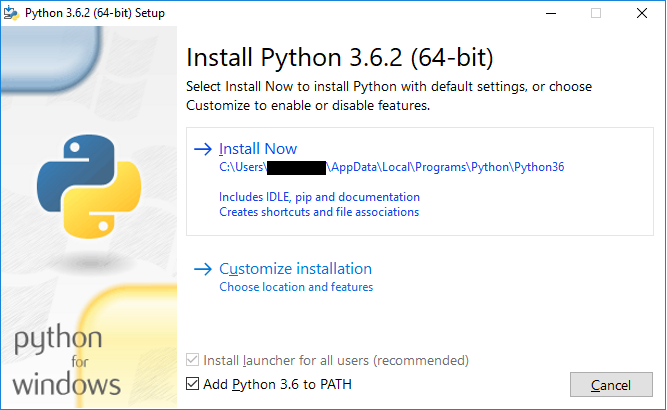
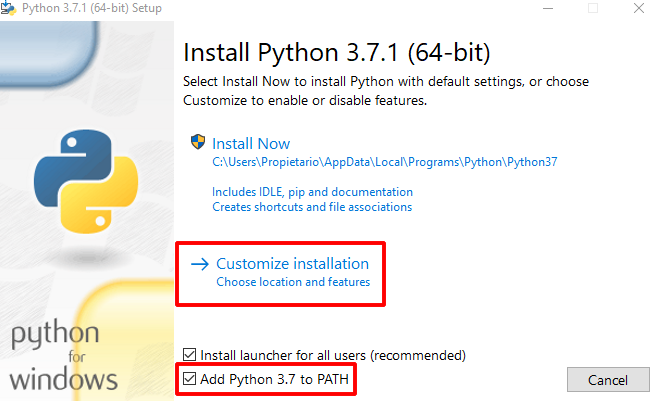
2018 update.

diff --git a/step-1/myscript.py b/step-1/myscript.py
@@ -1,1 +1,13 @@
-print("Hello World")
+"""
+This file should only work on Python 3.6 and newer.
+Its purpose is to test a correct installation of Python 3.
+"""
+
+from random import randint
+
+print("Generating one thousand random numbers...")
+
+for i in range(1000):
+
+    random_number = randint(0, 100000)
+    print(f"Number {i} was: {random_number}")

diff --git a/step-1/README.md b/step-1/README.md
@@ -8,11 +8,15 @@ The easiest way to install `Python 3` on `Windows` is to use the official `Pytho
 
 You can download the installer file (`.exe`) by opening the following link on a `Windows` PC.
 
-https://www.python.org/downloads/
+https://www.python.org/ftp/python/3.7.1/python-3.7.1-amd64.exe
 
 When running the installer make sure to check the box that says `Add Python 3.6 to PATH`.
 
 ![Windows](./images/1.png)
+
+After that you should choose `Customize Installation`. Make sure your custom installation settings are the same as the following image.
+
+![Windows](./images/2.png)
 
 Once `Python 3` has finished installing you will be able to run `Python 3` scripts by opening a `Command prompt` and typing the name of the file.
 
@@ -22,6 +26,8 @@ Assuming we have a simple `Python 3` file on our desktop named `myscript.py`:
 cd c:\Users\(username)\Desktop
 python myscript.py
 ```
+
+You can also double click `.py` files and they will automatically start a `Python` interpreter and begin executing the code until it finishes.
 
 ## OSX / macOS
 
@@ -48,7 +54,7 @@ Once `Python 3` has installed, you can verify it is correctly linked to your `PA
 python3 --version
 ```
 
-![macOS](./images/2.png)
+![macOS](./images/3.png)
 
 # Linux (Ubuntu)
 
@@ -59,6 +65,7 @@ Open a terminal window and enter the following commands:
 ```
 sudo apt-get update
 sudo apt-install python3
+sudo apt-get install python3-pip
 ```
 
 Once `Python 3` has installed, you can verify it is correctly linked to your `PATH` by using the following command:
